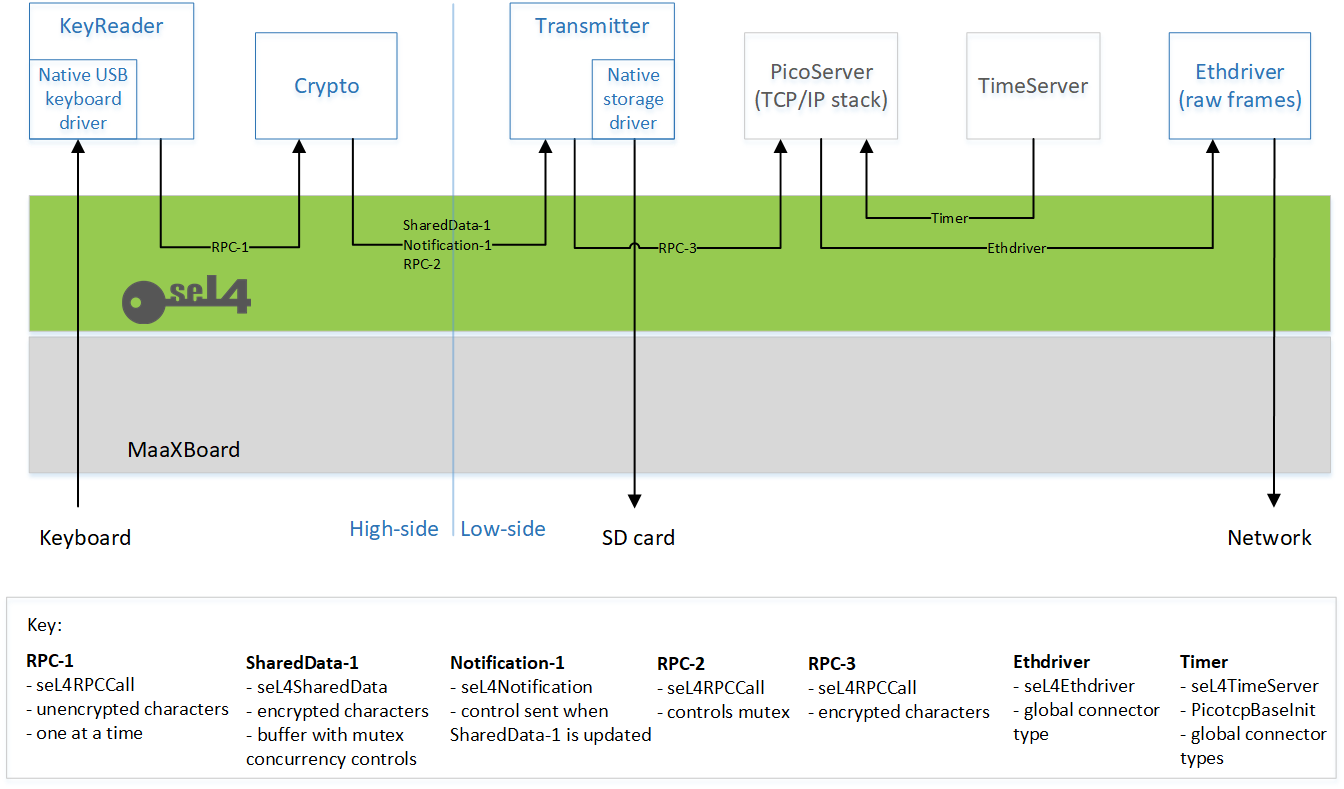
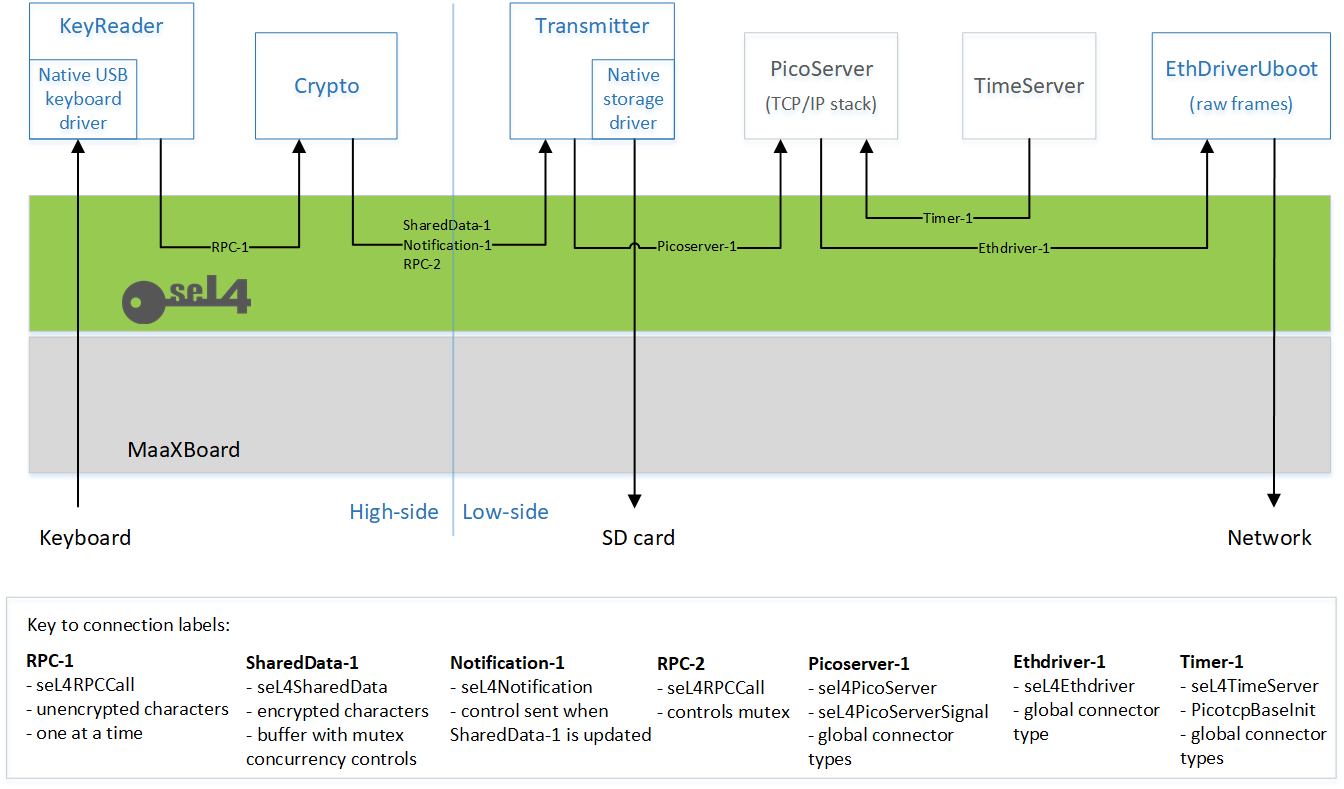
Update in progress

diff --git a/seL4-doc/src/case_study_intro.md b/seL4-doc/src/case_study_intro.md
@@ -1,23 +1,29 @@
 # Case Study Introduction
 
-This section works through an example to show some of our device drivers being used within a larger CAmkES application. It is nominally labelled as a 'security domain' demonstrator (named `security_demo`) but this is mainly in the context of a simple keyboard-based encryption device that was inspired by an Enigma machine! Its main purpose is to show notional data separation and to provide worked examples of inter-component communications using different seL4 mechanisms.
+This section works through an example to show some of our device drivers being used within a larger CAmkES application. It is nominally labelled as a 'security domain' demonstrator (named `security_demo`) but this is mainly in the context of being a simple keyboard-based encryption device that was inspired by an Enigma machine! Its main purpose is to show notional data separation and to provide worked examples of inter-component communications using different seL4 mechanisms.
 
 As with earlier sections of this developer kit documentation, we continue to defer to the seL4 Foundation's [documentation of CAmkES](https://docs.sel4.systems/projects/camkes/) for the bulk of its understanding, but this section will cover aspects of the use of CAmkES where appropriate.
 
-## Overview
+## Basic Description
+
+An operator types a plaintext message using a USB-connected keyboard. The application encrypts the message and transmits the resulting ciphertext via Ethernet to a preconfigured IP address. The application also records the ciphertext messages in a logfile on the SD card of the device.
+
+## Architecture Overview
 
 The architecture of the demonstrator is shown below.
 
-_Temporary_note: This is a working diagram that will probably be updated_
+_Temporary_note: This is a working diagram that will probably need to be updated_
 
 ![Demonstrator architecture](figures/encrypter_arch.png)
 
-Arrow directions show an abstracted view of data flow. Arrow labels list seL4 connection types (some concerned with data flow, some with control flow), which are elaborated in the key. Blue blocks show components created specifically for the security demonstrator (or previously created within the developer kit in the case of [Ethdriver](uboot_driver_usage.md#test-application-picoserver_uboot)); grey blocks show global components.
+Arrow directions show an abstracted view of data flow. Arrow labels refer to seL4 connector types (some concerned with data flow, some with control flow), which are elaborated in the key. More details about seL4 connector types may be found in the [CAmkES manual](https://docs.sel4.systems/projects/camkes/manual.html), but the fundamental types are _RPC_, _SharedData_, and _Notification_ (e.g. see examples of `seL4RPCCall` in the key). Blue blocks show CAmkES components created specifically for the security demonstrator (or previously created within the developer kit in the case of [Ethdriver](uboot_driver_usage.md#test-application-picoserver_uboot)); grey blocks show CAmkES global components.
 
-Plaintext characters are typed on a keyboard and read by the KeyReader component. These characters are then encrypted by the Crypto component to transform them into ciphertext. Since this application is more concerned with demonstrating seL4 concepts than crypto-algorithms, the Enigma machine's rotors and plugboard are replaced with a simple [ROT13](https://en.wikipedia.org/wiki/ROT13) algorithm!
+Plaintext characters are typed on a keyboard and read by the KeyReader component. These characters are then encrypted by the Crypto component to transform them into ciphertext. _RPC_ is an appropriate connector type for the character-by-character data flow between KeyReader and Crypto (labelled as RPC-1 on the diagram). Since this application is more concerned with demonstrating seL4 concepts than crypto-algorithms, the Enigma machine's rotors and plugboard are replaced with a simple [ROT13](https://en.wikipedia.org/wiki/ROT13) algorithm!
 
 As the KeyReader and Crypto components handle plaintext, they are considered as 'high side' and must be kept separate from the downstream 'low side' components that handle ciphertext.
 
-The encrypted characters are transferred to the Transmitter component via a shared circular buffer, where Crypto writes to the Head of the buffer and Transmitter reads from its Tail. If the buffer is full, Crypto discards characters; otherwise, each time Crypto writes a character to the buffer, it sends a notification to Transmitter to signify that there is data to read. Transmitter acts upon a notification by reading all available characters until the buffer is empty.
+The encrypted characters are transferred to the Transmitter component via a shared circular buffer, where Crypto writes to the _head_ of the buffer and Transmitter reads from its _tail_. The buffer is implemented as a _SharedData_ connection. (Note that within CAmkES, shared memory is abstracted as a _Dataport_.) If the buffer is full, Crypto discards characters; otherwise, each time Crypto writes a character to the buffer, it sends a _Notification_ to Transmitter to signify that there is data to read. Transmitter acts upon notifications by reading all available characters until the buffer is empty.
 
-The shared buffer is protected from concurrent access by use of a [mutex](https://en.wikipedia.org/wiki/Lock_(computer_science)).
+The shared buffer is protected from concurrent access by use of a [mutex](https://en.wikipedia.org/wiki/Lock_(computer_science)). The mutex is owned by Crypto, and Transmitter accesses its lock and unlock operations via an _RPC_ connection (i.e. RPC-2; note that this is a control flow and is in the opposite direction to the arrow, which shows the data flow of encrypted characters).
+ 
+The Transmitter component interfaces to PicoServer via three connections, as shown in the `picoserver_uboot` [test application diagram](uboot_driver_usage.md#test-application-picoserver_uboot): `send`, `receive`, and `control`. The `send` and `receive` ports are fundamentally implemented as buffers (_SharedData_), but their type is defined as a global connector `seL4PicoServer`. The `control` port has a global connector type of `seL4PicoServerSignal` (fundamentally using _RPC_ and _Notification_). Although the interface between Transmitter and PicoServer configures the `receive` port to satisfy the CAmkES connections, the application does not process any Ethernet traffic in this direction, and only `send` is required.
